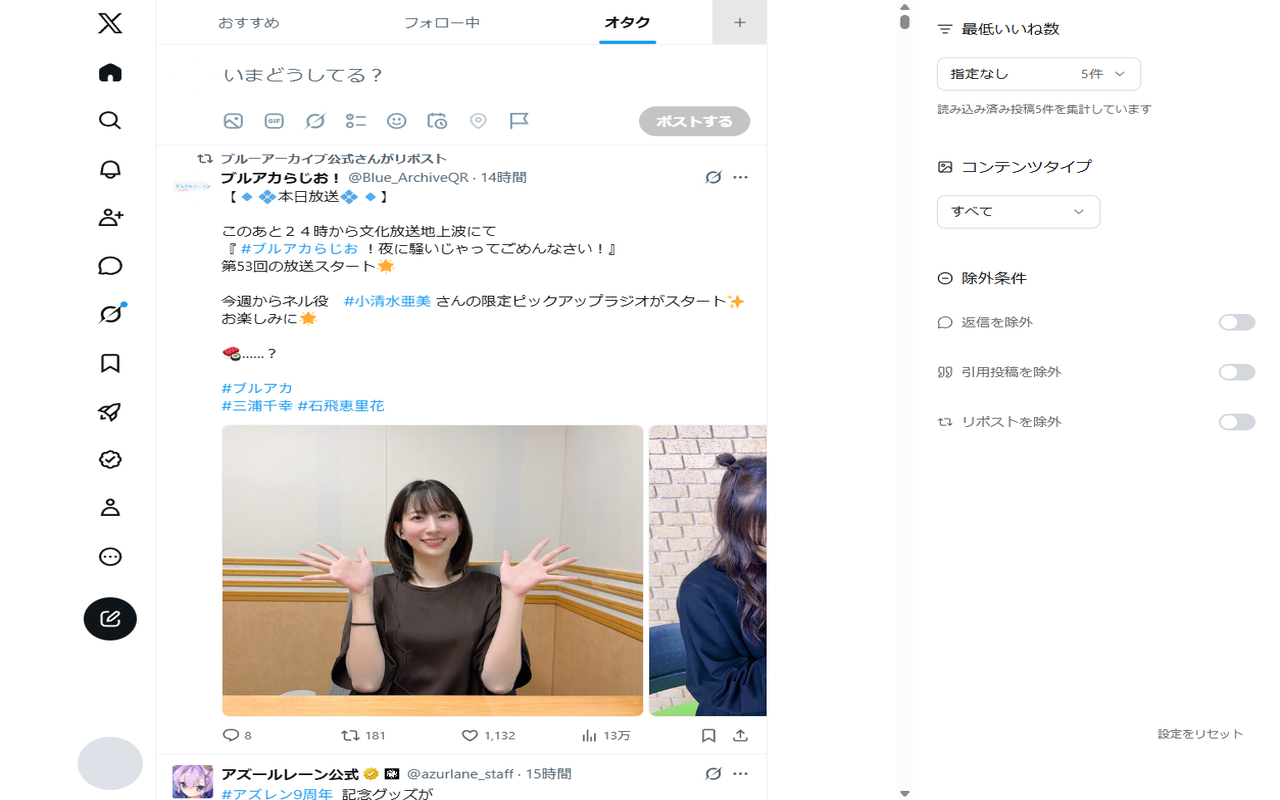
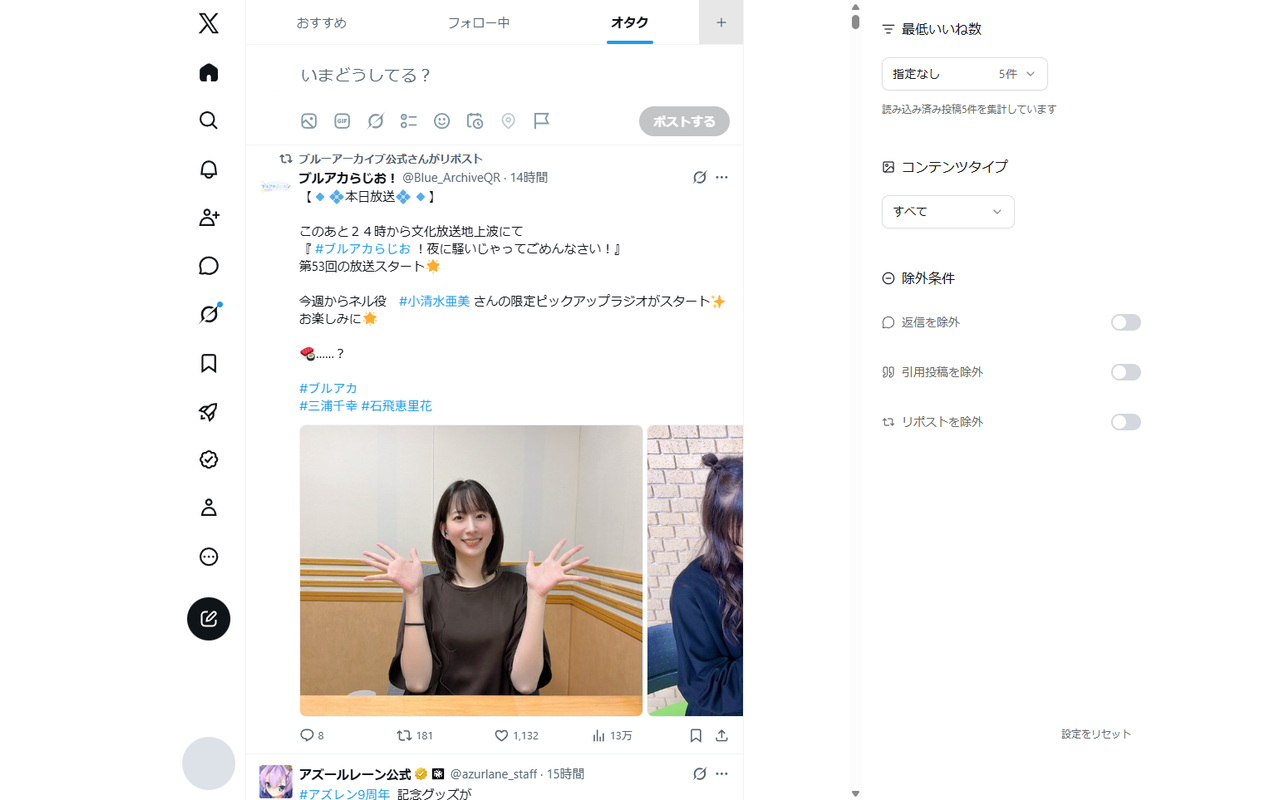
掲載画像の縦横比を保つ

diff --git a/store-assets/screenshots/README.md b/store-assets/screenshots/README.md
@@ -1,6 +1,6 @@
 # 掲載用スクリーンショット
 
-2026年10月4日に開発用 Chrome の実ページと、実際に開いた Sift サイドパネルを CDP で撮影した。サイトとパネルの描画領域を別々に取得し、横に並べて1280×800ピクセルの PNG に整えた。画面や投稿を生成・差し替えたものではない。
+2026年10月4日に開発用 Chrome の実ページと、実際に開いた Sift サイドパネルを CDP で撮影した。サイトとパネルの描画領域を別々に取得し、横に並べて縦横比を保ったまま1280×800ピクセルの PNG に収めた。余白は白で埋めている。画面や投稿を生成・差し替えたものではない。
 
 ## 現在の日本語掲載画像
 
